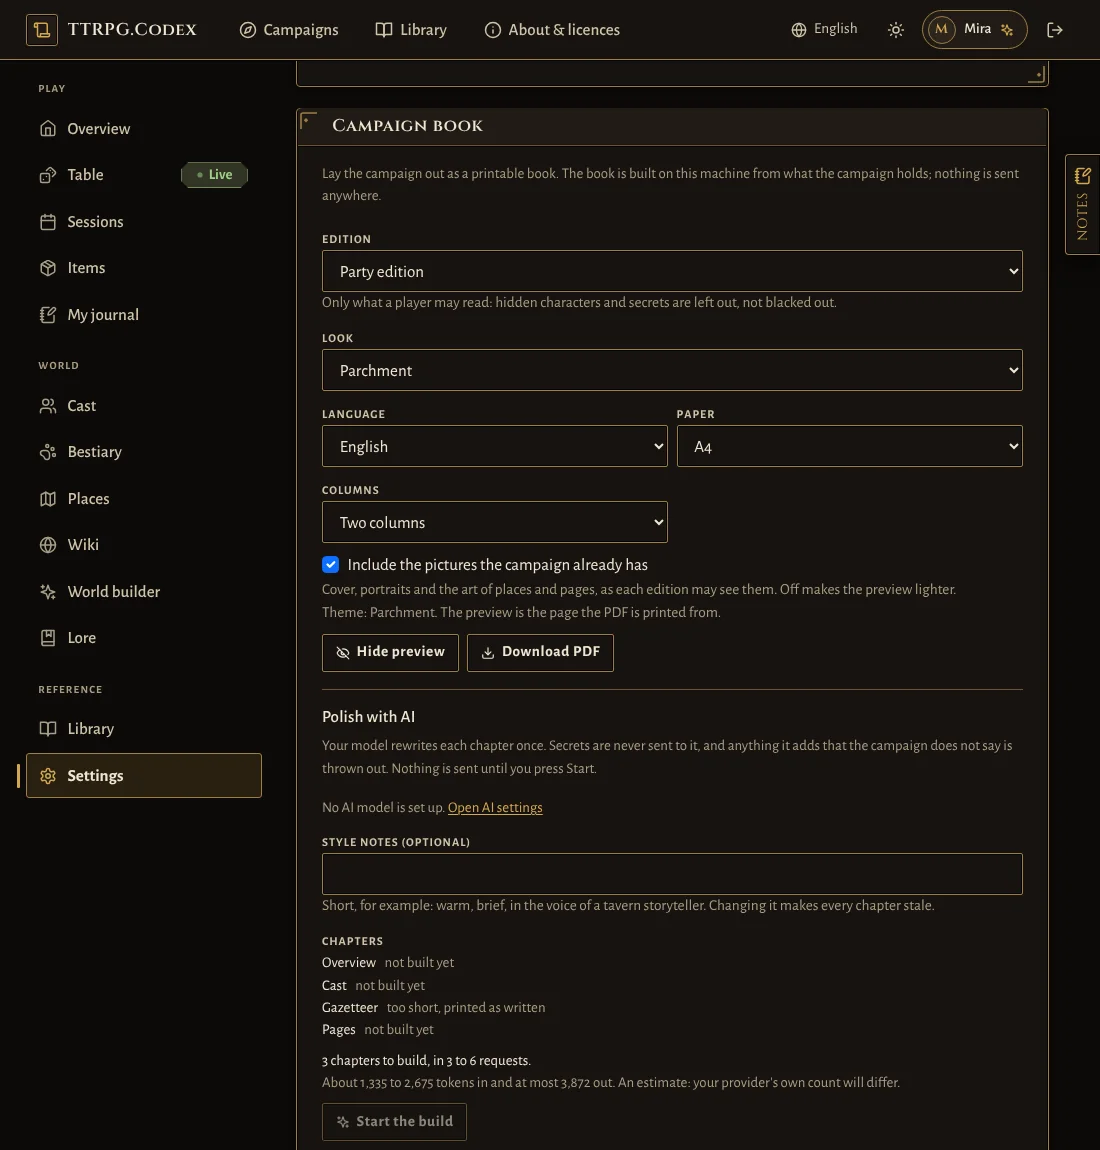
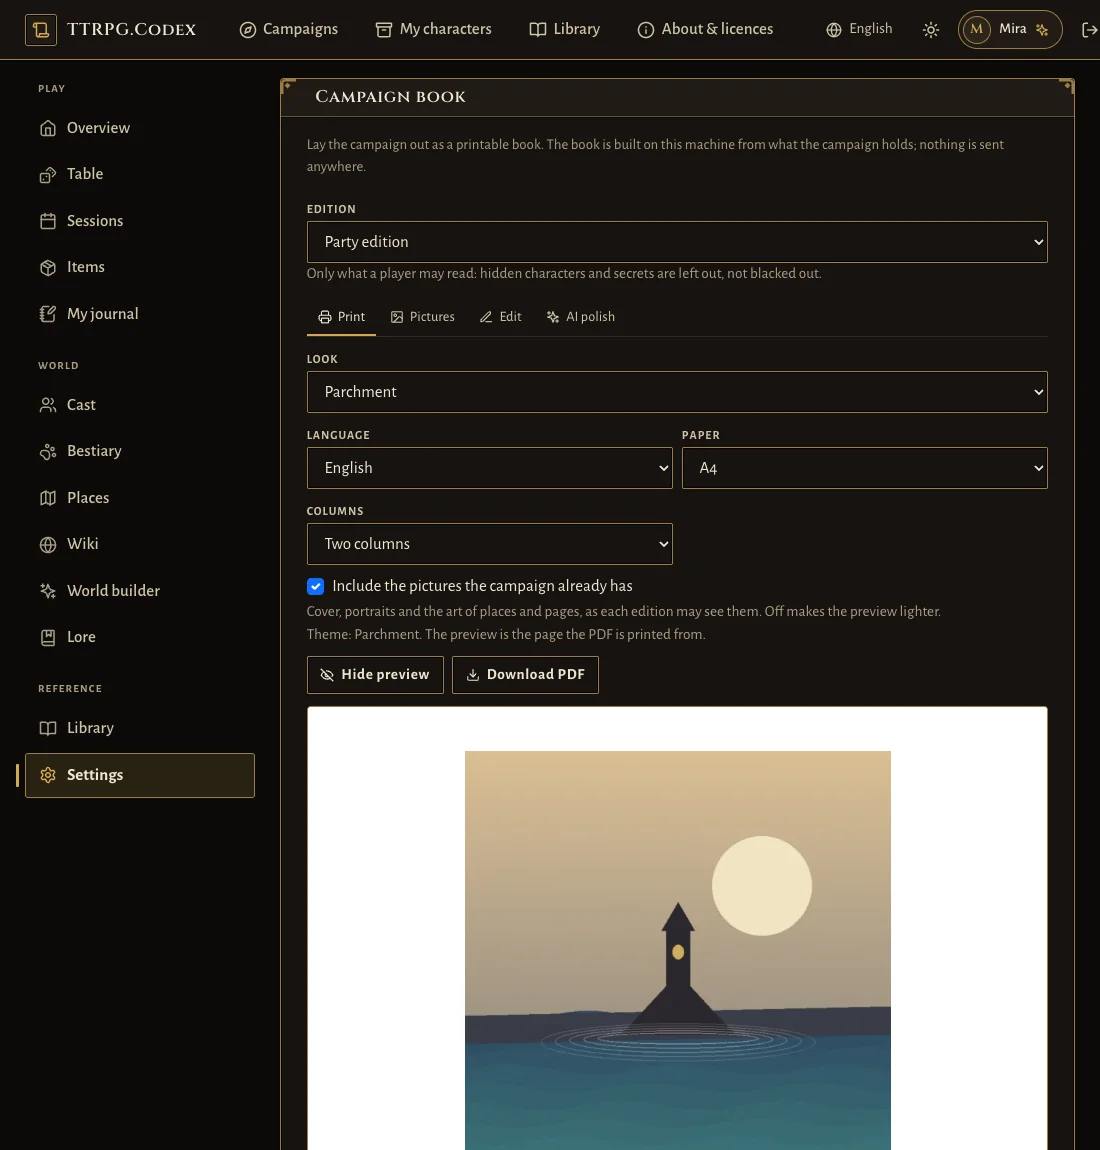
Website guide: the campaign book, in English, Russian and Hebrew
Rewrites the guide's book section for a GM who has never used it: the two
editions and why the party one never shows secrets, the print panel, the
editor, stale chapters (Bring up to date, Regenerate, Keep mine), Fit pages,
the picture tray (own pictures, versions, spots and scenes, the art director,
drawing with the cost first), optional AI with review, a copy for each player,
the party leak check, PDF and Markdown, and other languages.

New real screenshots in all three languages (book-panel, book-art,
book-editor, book-player, book-leak, book-stale) from the capture script's
new --book-only mode; nothing calls a model or draws a picture. The optimiser
now keeps the manifest entries of shots a partial run does not touch.

diff --git a/site/src/content/he/guide.md b/site/src/content/he/guide.md
@@ -197,7 +197,7 @@ description: מדריך שימוש ב-TTRPG.Codex: יצירת קמפיין, הז
 4. מתחת לחלקים יש מגש עם שלוש לשוניות: "[[ui:Campaign.Book.Draft.Ai.Title]]", "[[ui:Campaign.Book.Draft.Problems]]" (מה שדורש תשומת לב) ו"[[ui:Campaign.Book.Draft.BlocksTab]]" (התיבות שאפשר להשתמש בהן, כמו הערה או טקסט להקראה).
 5. רשימת "[[ui:Campaign.Book.Draft.Theme]]" בסרגל הכלים קובעת את המראה: "[[ui:Campaign.Book.Draft.Theme.plain]]" או "[[ui:Campaign.Book.Draft.Theme.ashen-vellum]]". בתפריט שלוש הנקודות, **"[[ui:Campaign.Book.Theme.Open]]"** מכניס ערכת עיצוב משלכם מ-Homebrewery.
 
-![עורך הספר: הפרקים, ה-Markdown של פרק הדמויות והעמודים המודפסים לצדו.](shot:book-editor)
+![עורך הספר: הפרקים, ה-Markdown של פרק הדמויות, העמודים המודפסים לצדו ומגש "לשאול את ה-AI" למטה.](shot:book-editor)
 
 > [!TIP]
 > בתפריט שלוש הנקודות יש גם **"[[ui:Campaign.Book.Draft.StartOver]]"**: העריכות נזרקות והספר נבנה מחדש מהקמפיין. העורך שואל קודם.
@@ -223,8 +223,10 @@ description: מדריך שימוש ב-TTRPG.Codex: יצירת קמפיין, הז
 - **התמונות שלכם.** "[[ui:Campaign.Book.Art.Upload]]" שם תמונה במקום (PNG, JPEG, WebP, GIF או AVIF, עד 6MB). "[[ui:Campaign.Book.Art.Replace]]" ו"[[ui:Campaign.Book.Art.Remove]]" משנים אותה אחר כך. תמונה שהוספתם במהדורת הקבוצה מודפסת בשני הספרים. תמונה שהוספתם במהדורת המנחה מודפסת רק בספר המנחה.
 - **במאי האמנות.** כשמוגדר מודל טקסט, **"[[ui:Campaign.Book.Art.Suggest.Start]]"** קורא מתווה קצר של המהדורה, בלי סודות, ומציע מה כל תמונה יכולה להראות. לפני שנשלח משהו המגש אומר כמה בקשות נדרשות, בערך כמה אסימונים, ומה העלות אם הזנתם מחירים. ההצעות הן טקסט בלבד.
 - **ציור.** כשמוגדר מודל תמונות, מסמנים את המקומות לציור, בוחרים סגנון לכל הספר וקוראים את העלות: מספר התמונות והמחיר של כל אחת. שום דבר לא מצויר עד שתלחצו **"[[ui:Campaign.Book.Art.Draw.Pick]]"**. סימון על מקום שכבר יש בו תמונה מציין שהיא תוחלף.
+- **גרסאות.** מקום שומר עד שלוש תמונות, בין שהוספתם אותן ובין שהמודל צייר אותן, ורק זו שבשימוש מודפסת. פותחים את גרסאות המקום כדי לראות אותן, **"[[ui:Campaign.Book.Art.Versions.Use]]"** מחליף, ו**"[[ui:Campaign.Book.Art.Versions.Delete]]"** מוחק גרסה לצמיתות (ושואל קודם). **"[[ui:Campaign.Book.Art.Remove]]"** רק מוציא את התמונה מהספר: היא נשארת בין הגרסאות, ואפשר להחזיר אותה.
+- **תמונות קטנות וסצנות.** לכל ערך יכולה להיות תמונה קטנה אחת שסוגרת אותו, והיא מופיעה ברשימה כתמונה קטנה אחרי הערך. במהדורת המנחה לכל מפגש בכרוניקה יש גם מקום לתמונת סצנה. במאי האמנות יכול להציע את שתיהן, והן עובדות כמו כל מקום אחר.
 
-![לשונית התמונות: המקומות לתמונות, הצעות במאי האמנות ובחירות הציור, לפני שהופעל משהו.](shot:book-art)
+![לשונית התמונות: המקומות לתמונות, גרסאות של תמונה אחת, הצעות במאי האמנות ובחירות הציור, לפני שהופעל משהו.](shot:book-art)
 
 > [!NOTE]
 > שני השלבים משתמשים במודלים מ"[[ui:Layout.User.AiSettings]]" וחיובם אצל הספק שלכם. בלי מודל המגש אומר זאת, וכל השאר ממשיך לעבוד. סגנון התמונות שלכם מהגדרות ה-AI, אם קבעתם כזה, משמש לכל התמונות במקום בחירות הסגנון.
@@ -250,6 +252,12 @@ description: מדריך שימוש ב-TTRPG.Codex: יצירת קמפיין, הז
 מתקנים את הטקסט, או לוחצים **"[[ui:Campaign.Book.Draft.Leak.Anyway]]"** אם אתם בטוחים. זו אזהרה, לא מנעול. מהדורת המנחה לא נבדקת.
 
 ![בדיקת הדליפות: שם של דמות נסתרת שהוקלד בפרק הדמויות של ספר הקבוצה, נמצא לפני שהורד משהו.](shot:book-leak)
+
+### עותק לכל שחקן {#book-players}
+
+יש דברים שנאמרו רק לדמות של שחקן אחד. כותבים אותם בקמפיין עבור אותה דמות (בלוק `:::for`), והם נשארים מחוץ לספר הקבוצה. בעורך של מהדורת הקבוצה פותחים את תפריט שלוש הנקודות ומחפשים תחת **"[[ui:Campaign.Book.Draft.ForPlayer]]"**: כל שחקן שיש לו דמות מופיע לפי שמות הדמויות שלו. בחירה בשחקן יוצרת את העותק האישי שלו: ספר הקבוצה, ועוד הערה מתחת לכל ערך עם מה שנאמר רק לדמויות שלו, בכותרת "רק עבור" ושמו. הקובץ נקרא על שם הקמפיין והדמויות. שום דבר לא נשמר, ולכן אחרי עריכה יוצרים אותו מחדש.
+
+![תפריט שלוש הנקודות בעורך מהדורת הקבוצה: עותק לשחקן של אריה.](shot:book-player)
 
 ### הורדה {#book-download}
 

diff --git a/site/src/content/en/guide.md b/site/src/content/en/guide.md
@@ -197,7 +197,7 @@ To change the words, open the editor instead.
 4. Under the panes, a tray has three tabs: [[ui:Campaign.Book.Draft.Ai.Title]], [[ui:Campaign.Book.Draft.Problems]] (what needs your attention) and [[ui:Campaign.Book.Draft.BlocksTab]] (the boxes you can use, such as a note or read-aloud text).
 5. The theme list in the toolbar sets the look: [[ui:Campaign.Book.Draft.Theme.plain]] or [[ui:Campaign.Book.Draft.Theme.ashen-vellum]]. Under the three dots, **[[ui:Campaign.Book.Theme.Open]]** brings in a Homebrewery theme of your own.
 
-![The book editor: chapters, the Markdown of the Cast chapter, and the printed pages beside it.](shot:book-editor)
+![The book editor: chapters, the Markdown of the Cast chapter, the printed pages beside it, and the Ask AI bar below.](shot:book-editor)
 
 > [!TIP]
 > The three dots also hold **[[ui:Campaign.Book.Draft.StartOver]]**, which throws away your edits and makes the book again from the campaign. It asks first.
@@ -223,8 +223,10 @@ The [[ui:Campaign.Book.Tab.Art]] tab is the tray. Open **[[ui:Campaign.Book.Art.
 - **Your own pictures.** [[ui:Campaign.Book.Art.Upload]] puts one in a place (PNG, JPEG, WebP, GIF or AVIF, under 6 MB). [[ui:Campaign.Book.Art.Replace]] and [[ui:Campaign.Book.Art.Remove]] change it later. A picture added in the party edition prints in both books. One added in the GM edition prints in the GM book only.
 - **The art director.** With a text model set up, **[[ui:Campaign.Book.Art.Suggest.Start]]** reads a short outline of the edition, without secrets, and suggests what each picture could show. Before it sends anything, the tray says how many requests it needs, about how many tokens, and the cost if you entered prices. Suggestions are text only.
 - **Drawing.** With a picture model set up, tick the places you want drawn, choose a style for the whole book, and read the cost: the number of pictures and the price of each. Nothing is drawn until you press **[[ui:Campaign.Book.Art.Draw.Pick]]**. A tick on a place that already has a picture says that it will be replaced.
+- **Versions.** A place keeps up to three pictures, whether you added them or the model drew them, and only the one in use prints. Open the place's versions to see them, press **[[ui:Campaign.Book.Art.Versions.Use]]** to switch, or **[[ui:Campaign.Book.Art.Versions.Delete]]** to remove one for good (it asks first). **[[ui:Campaign.Book.Art.Remove]]** only takes the picture out of the book: it stays among the versions, so you can put it back.
+- **Small pictures and scenes.** Every entry can have one small picture that closes it, listed as "Small picture after" the entry. In the GM edition each session of the Chronicle also has a place for a scene picture. The art director may suggest both, and they work like any other place.
 
-![The Pictures tab: the places for pictures, the art director's suggestions and the drawing choices, before anything is run.](shot:book-art)
+![The Pictures tab: the places for pictures, the versions of one picture, the art director's suggestions and the drawing choices, before anything is run.](shot:book-art)
 
 > [!NOTE]
 > Both steps use the models from [[ui:Layout.User.AiSettings]], and bill your provider. Without a model the tray says so and everything else keeps working. Your own picture style from AI settings, if you set one, is used for every picture in place of the style choices.
@@ -250,6 +252,12 @@ Once you can type freely, nothing can stop you pasting a secret into the party b
 Fix the text, or press **[[ui:Campaign.Book.Draft.Leak.Anyway]]** if you know better. It is a warning, not a lock. The GM edition is not checked.
 
 ![The leak check: a hidden character's name typed into the party book's Cast, found before anything is downloaded.](shot:book-leak)
+
+### A copy for each player {#book-players}
+
+Some things only one player's character was told. Write them for that character in the campaign (a `:::for` block), and they stay out of the party book. In the editor of the party edition, open the three dots and look under **[[ui:Campaign.Book.Draft.ForPlayer]]**: every player who owns a character is listed by their characters' names. Choosing one makes that player's own copy: the party book, plus a note under each entry with what only their characters were told, headed "Only for" and their name. The file is named after the campaign and the characters. Nothing is stored, so make it again after you edit.
+
+![The editor's three dots menu in the party edition, listing a copy for the player of Aria Stonehelm.](shot:book-player)
 
 ### Download {#book-download}
 
